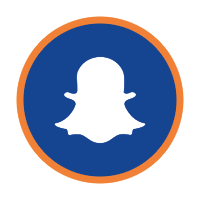
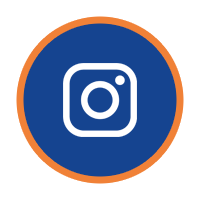
changed snapchat to instagram

Changed region(s): [[0.27, 0.27, 0.75, 0.72]]

diff --git a/contact.html b/contact.html
@@ -95,8 +95,8 @@
 					<p>Email us ScreenD@gmail.com</p>
 				</div>
 				<div class="logosalign">
-					<a href="#"><img src="images/icon3.png" alt="snapchat"></a>
-					<p>Follow us on Snapchat</p>
+					<a href="#"><img src="images/icon3.png" alt="instagram"></a>
+					<p>Follow us on Instagram</p>
 				</div>
 				<div class="logosalign">
 					<a href="#"><img src="images/icon4.png" alt="tiktok"></a>
